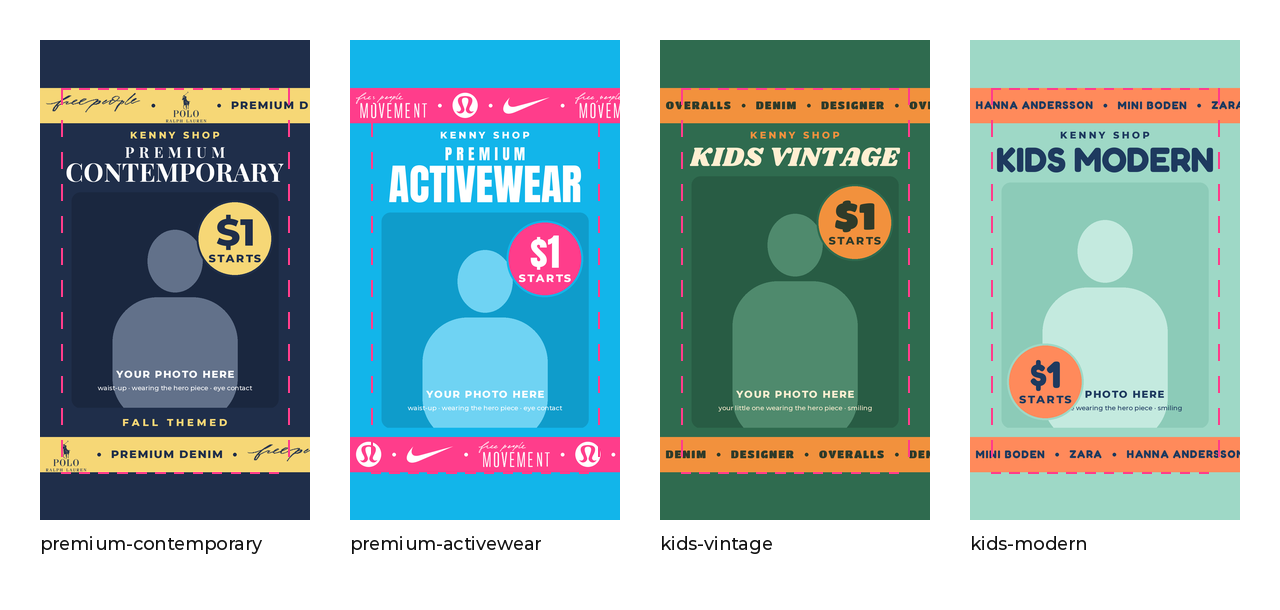
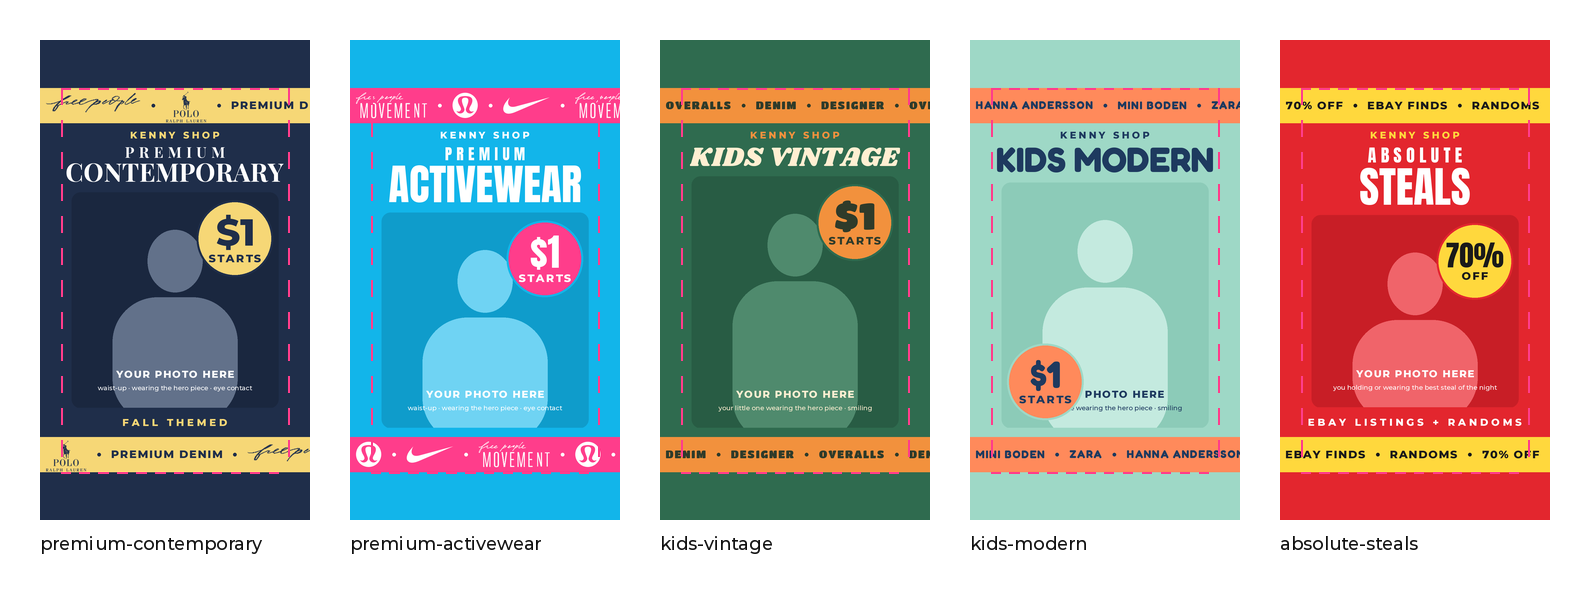
Absolute Steals cover and show title for 70%-off eBay listings and randoms
Badge text is now configurable per show (badge_big / badge_small).

Claude-Session: https://claude.ai/code/session_01Q51WZ95sB4G4SBq6JMRbx6

diff --git a/02-branding/whatnot-covers/make_covers.py b/02-branding/whatnot-covers/make_covers.py
@@ -69,6 +69,18 @@ SHOWS["kids-modern"] = dict(
     brands=["HANNA ANDERSSON", "MINI BODEN", "ZARA"],
     one_line=True, badge="bottom-left",  # keeps the $1 off her face
 )
+# Clearance show: eBay listings and randoms at 70% off.
+SHOWS["absolute-steals"] = dict(
+    # clearance red + yellow, loud condensed type
+    bg="#E3262E", ink="#FFFFFF", accent="#FFD83D", badge_ink="#1A1A1A", logo="#FFD83D",
+    photo_bg="#C81E26", figure="#F0646A",
+    head_font=DISPLAY, head_scale=1.0, badge_font=DISPLAY, top="ABSOLUTE", main="STEALS",
+    top_size=70, badge_big="70%", badge_small="OFF", brand_font=SANS_B,
+    brands=["70% OFF", "EBAY FINDS", "RANDOMS"],
+    footer="EBAY LISTINGS + RANDOMS", footer_font=SANS_B, footer_size=44, footer_ink="#FFFFFF",
+    photo_hint="you holding or wearing the best steal of the night",
+)
+
 # baby = newborn to 24 months; kids = toddler 2T through big-kid 16 (XL)
 KID_SIZES = {"baby": "BABY · NB–24M", "kids": "TODDLER & KIDS · 2T–16"}
 KID_PHOTOS = {  # photo, crop
@@ -247,8 +259,8 @@ def badge(canvas, s, cx, cy, r):
     d = ImageDraw.Draw(canvas)
     d.ellipse((cx - r - 8, cy - r - 8, cx + r + 8, cy + r + 8), fill=s["bg"])
     d.ellipse((cx - r, cy - r, cx + r, cy + r), fill=s["accent"])
-    big = text_img("$1", s.get("badge_font", SANS_B), 150, s["badge_ink"])
-    small = text_img("STARTS", SANS_B, 44, s["badge_ink"], spacing=6)
+    big = fit_text(s.get("badge_big", "$1"), s.get("badge_font", SANS_B), int(r * 1.6), 150, s["badge_ink"])
+    small = text_img(s.get("badge_small", "STARTS"), SANS_B, 44, s["badge_ink"], spacing=6)
     total = big.height + 18 + small.height
     y = cy - total // 2
     canvas.alpha_composite(big, (cx - big.width // 2, y))

diff --git a/02-branding/titles.md b/02-branding/titles.md
@@ -22,12 +22,14 @@ the cover so repeat buyers match them, and put the words buyers search for (bran
 | Kids Vintage, kids (`kids-vintage-kids`) | `$1 KIDS VINTAGE · 2T–16 · Overalls, Denim, Designer` |
 | Kids Modern, baby (`kids-modern-baby`) | `$1 KIDS MODERN · BABY NB–24M · Hanna Andersson, Mini Boden, Zara` |
 | Kids Modern, kids (`kids-modern-kids`) | `$1 KIDS MODERN · 2T–16 · Hanna Andersson, Mini Boden, Zara` |
+| Absolute Steals (`absolute-steals`) | `70% OFF ABSOLUTE STEALS · eBay Listings + Randoms` |
 
 Descriptions (list item types in plain words; swap in what's actually in the show):
 - **Kids Vintage, baby:** Vintage baby clothes, all $1 starts. Overalls, shortalls, denim jackets and jeans, and designer pieces. Sizes newborn to 24 months.
 - **Kids Vintage, kids:** Vintage kids' clothes, all $1 starts. Overalls, denim jackets and jeans, and designer pieces. Toddler and kids' sizes 2T–16.
 - **Kids Modern, baby:** Hanna Andersson, Mini Boden and Zara baby clothes, all $1 starts. Rompers, sets, dresses, sweaters and pajamas. Sizes newborn to 24 months.
 - **Kids Modern, kids:** Hanna Andersson, Mini Boden and Zara kids' clothes, all $1 starts. Dresses, sets, sweaters, jeans and pajamas. Toddler and kids' sizes 2T–16.
+- **Absolute Steals:** My eBay listings and random one-offs at 70% off my listed prices. Absolute steals: tops, jeans, dresses, activewear and more. (Swap in the item types and brands you're bringing.)
 
 Brand tag: Hanna Andersson on both Kids Modern shows. Kids Vintage has no single main brand,
 so tag the biggest brand in that night's show. Category: the kids/baby clothing

diff --git a/02-branding/thumbnail-maker.md b/02-branding/thumbnail-maker.md
@@ -73,9 +73,16 @@ whole outfit fits. Each kids show has two covers, one per size run, with the siz
 `kids-vintage-baby`, `kids-vintage-kids`, `kids-modern-baby`, `kids-modern-kids`.
 To use a different photo, put it in `photos/` and change `KID_PHOTOS` in `make_covers.py`.
 
+### Absolute Steals: 70% off clearance
+- For running eBay listings and randoms at 70% off.
+- Colors: clearance red `#E3262E` · white `#FFFFFF` (headline, footer) · yellow `#FFD83D` (runners, Kenny Shop, badge) · near-black `#1A1A1A` (runner and badge text)
+- Fonts: Anton for the headline and "70%", Montserrat ExtraBold for everything else
+- Text: `ABSOLUTE STEALS` · badge `70% OFF` · `EBAY LISTINGS + RANDOMS` · runners: `70% OFF` · `EBAY FINDS` · `RANDOMS`
+- Photo: you holding or wearing the best steal of the night
+
 ## Templates
 - Main cover photo (blank templates): `whatnot-covers/premium-contemporary.png`, `whatnot-covers/premium-activewear.png`,
-  `whatnot-covers/kids-vintage.png`, `whatnot-covers/kids-modern.png`
+  `whatnot-covers/kids-vintage.png`, `whatnot-covers/kids-modern.png`, `whatnot-covers/absolute-steals.png`
 - Finished covers with your photos: `whatnot-covers/final/` (includes `premium-contemporary-2.png`, a second Contemporary cover with no fall line and Free People · Anthropologie · Aritzia in the runners; Anthropologie and Aritzia show as text until their logo files are added). These and the photos in
   `whatnot-covers/photos/` stay on this computer only and are kept out of git, because the repo is public.
 - Feed-size check: `whatnot-covers/preview-feed-size.png`
